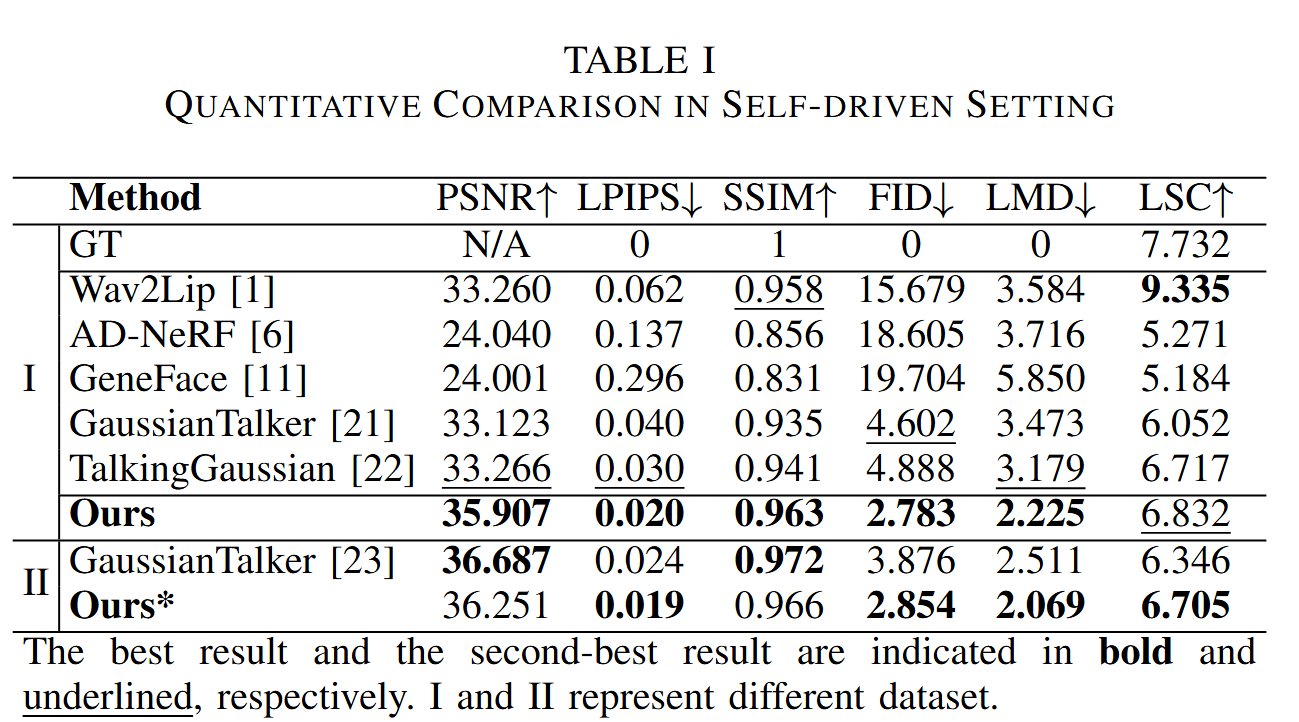
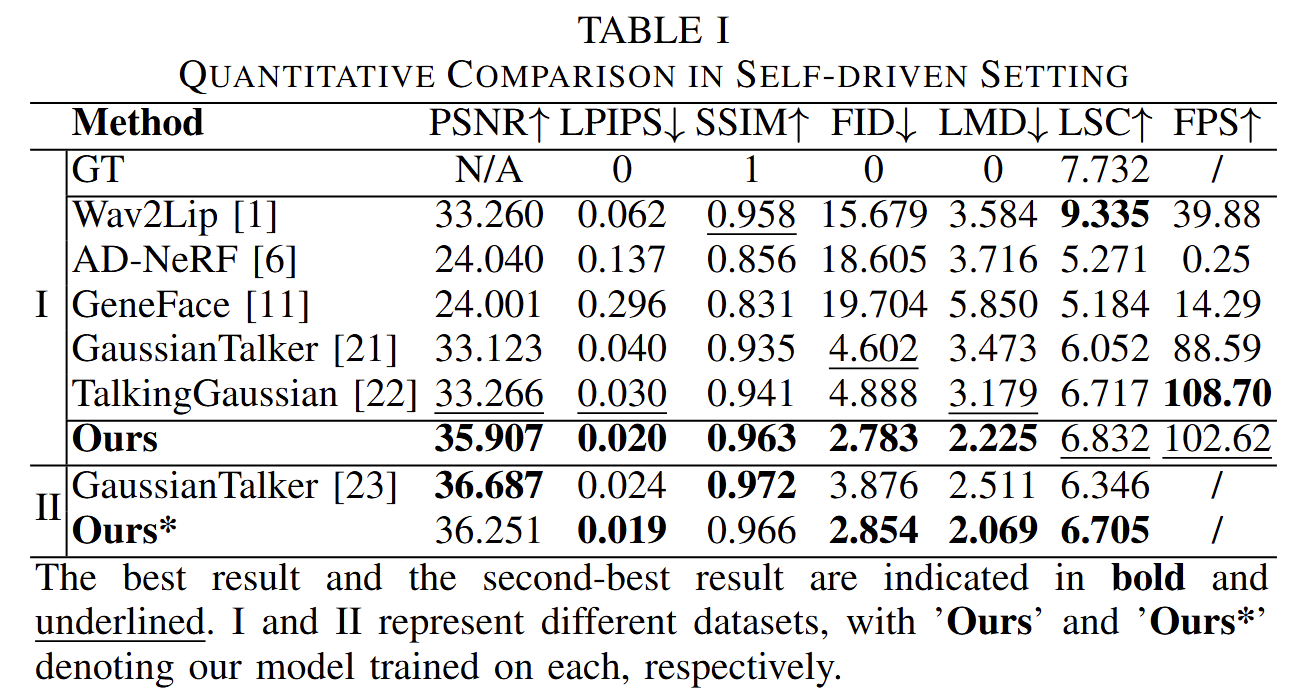
update_250103

Changed region(s): [[0.0, 0.0303, 0.9869, 1.0]]

diff --git a/index.html b/index.html
@@ -197,7 +197,7 @@
 
     <div class="section">
         <h2>Abstract</h2>
-        <p>3D Gaussian splatting (3DGS) has demonstrated significant potential in audio-driven talking head synthesis. However, despite notable advancements in speed and fidelity, current methods still face challenges such as inaccurate lip movements and facial artifacts. To address these issues, we propose LMTalker, a sparse landmark-guided 3DGS method, applying facial landmarks for the first time in 3DGS-based talking head synthesis. Our method explicitly leverages sparse facial landmarks to guide the deformation of dense Gaussians, effectively reduces inconsistencies between the input audio and facial dynamics, leading to improved lip movement accuracy and facial fidelity. Furthermore, we utilize facial landmarks in a hierarchical way to achieve region-specific generation. By integrating audio information, we enhance the clarity and reduce artifacts in the inner mouth region. Experimental results demonstrate that our method surpasses existing methods in terms of fidelity and lip movements accuracy, while maintaining high rendering speed up to 100 FPS.</p>
+        <p>3D Gaussian splatting (3DGS) has demonstrated significant potential in audio-driven talking head synthesis. However, despite notable advancements in speed and fidelity, current methods still face challenges such as inaccurate lip movements and facial artifacts. To address these issues, we propose LMTalker, a sparse landmark-guided 3DGS method, applying facial landmarks for the first time in 3DGS-based talking head synthesis. Our method explicitly leverages sparse facial landmarks to guide the deformation of dense Gaussians, effectively reduces inconsistencies between the input audio and facial dynamics, leading to improved lip movement accuracy and facial fidelity. Furthermore, we utilize facial landmarks in a hierarchical way to achieve region-specific generation. By integrating audio information, we enhance the clarity and reduce artifacts in the inner mouth region. Experimental results demonstrate that our method surpasses existing methods in terms of fidelity and lip movements accuracy, while maintaining high rendering speed.</p>
     </div>
 
     <div class="section">
